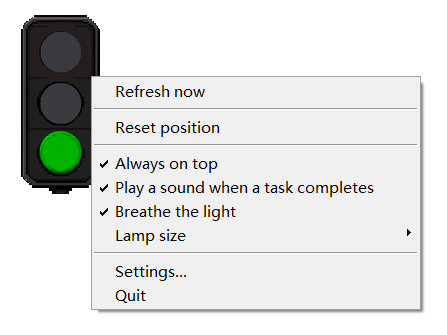
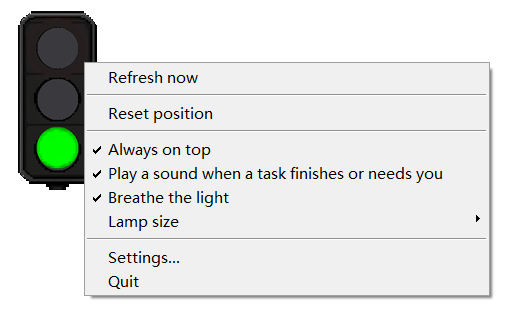
Refresh the menu screenshots and the sound description

Changed region(s): [[0.0291, 0.0312, 0.9888, 0.9375]]

diff --git a/README.en.md b/README.en.md
@@ -36,7 +36,7 @@ No window switching, no log tailing. A glance out of the corner of your eye.
 | **Refresh now** | Fetch the state again instead of waiting for the next push |
 | **Reset position** | Bring the lamp back if it was dragged somewhere invisible |
 | **Always on top** | Whether it floats above other windows |
-| **Play a sound when a task completes** | A chime at the end of a turn |
+| **Play a sound when a task finishes or needs you** | A chime when a turn ends or the lamp turns red |
 | **Breathe the light** | The lit bulb cycles between 60% and 100% brightness, pausing a second at full |
 | **Lamp size** | Small, medium or large; takes effect immediately |
 | **Settings…** | Opens the window below |
@@ -137,7 +137,7 @@ the client being online             -- a background tab counts as online
 ### Behaviour
 
 - **Breathing** dims only the lit bulb, never the housing; turning it off returns to full brightness
-- **Sound** plays a chime when a turn completes
+- **Sound** plays a chime when a turn ends, or when the lamp turns red because it needs you
 - **Size** small / medium / large, keeping the window where it was
 - **Bilingual** Chinese and English, switching immediately in both the menu and the windows
 - **High DPI** declares per-monitor DPI awareness, so text stays sharp on scaled displays
